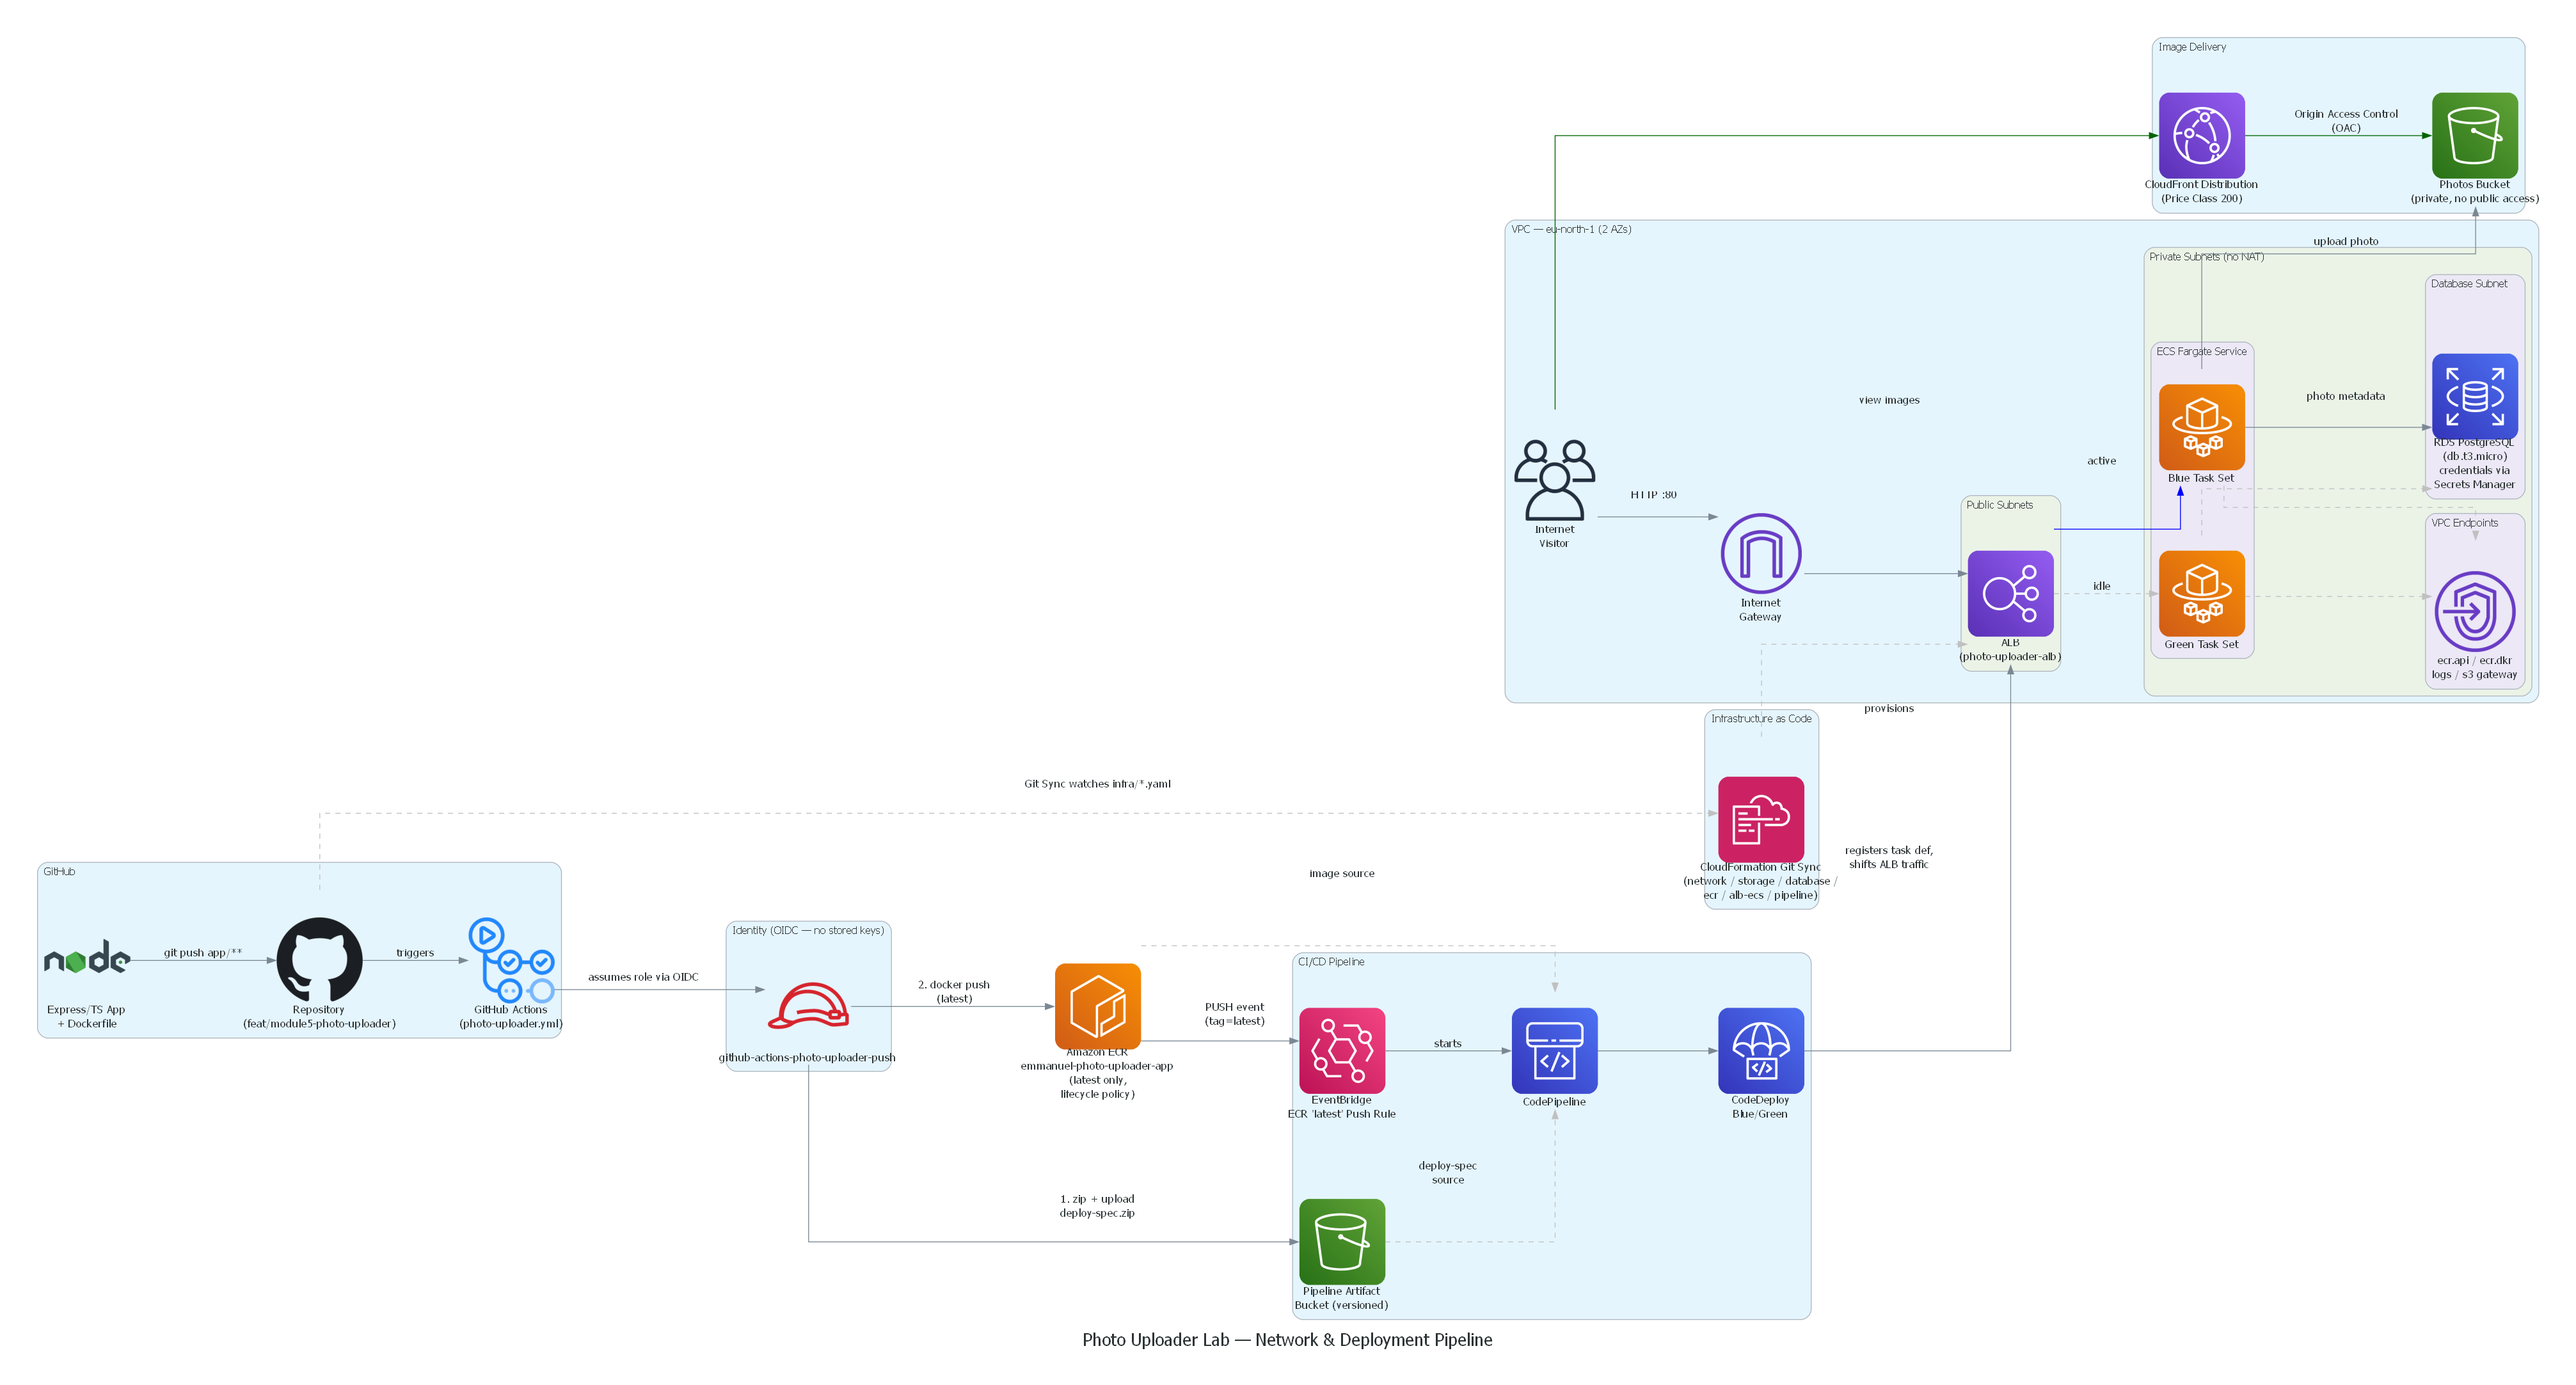
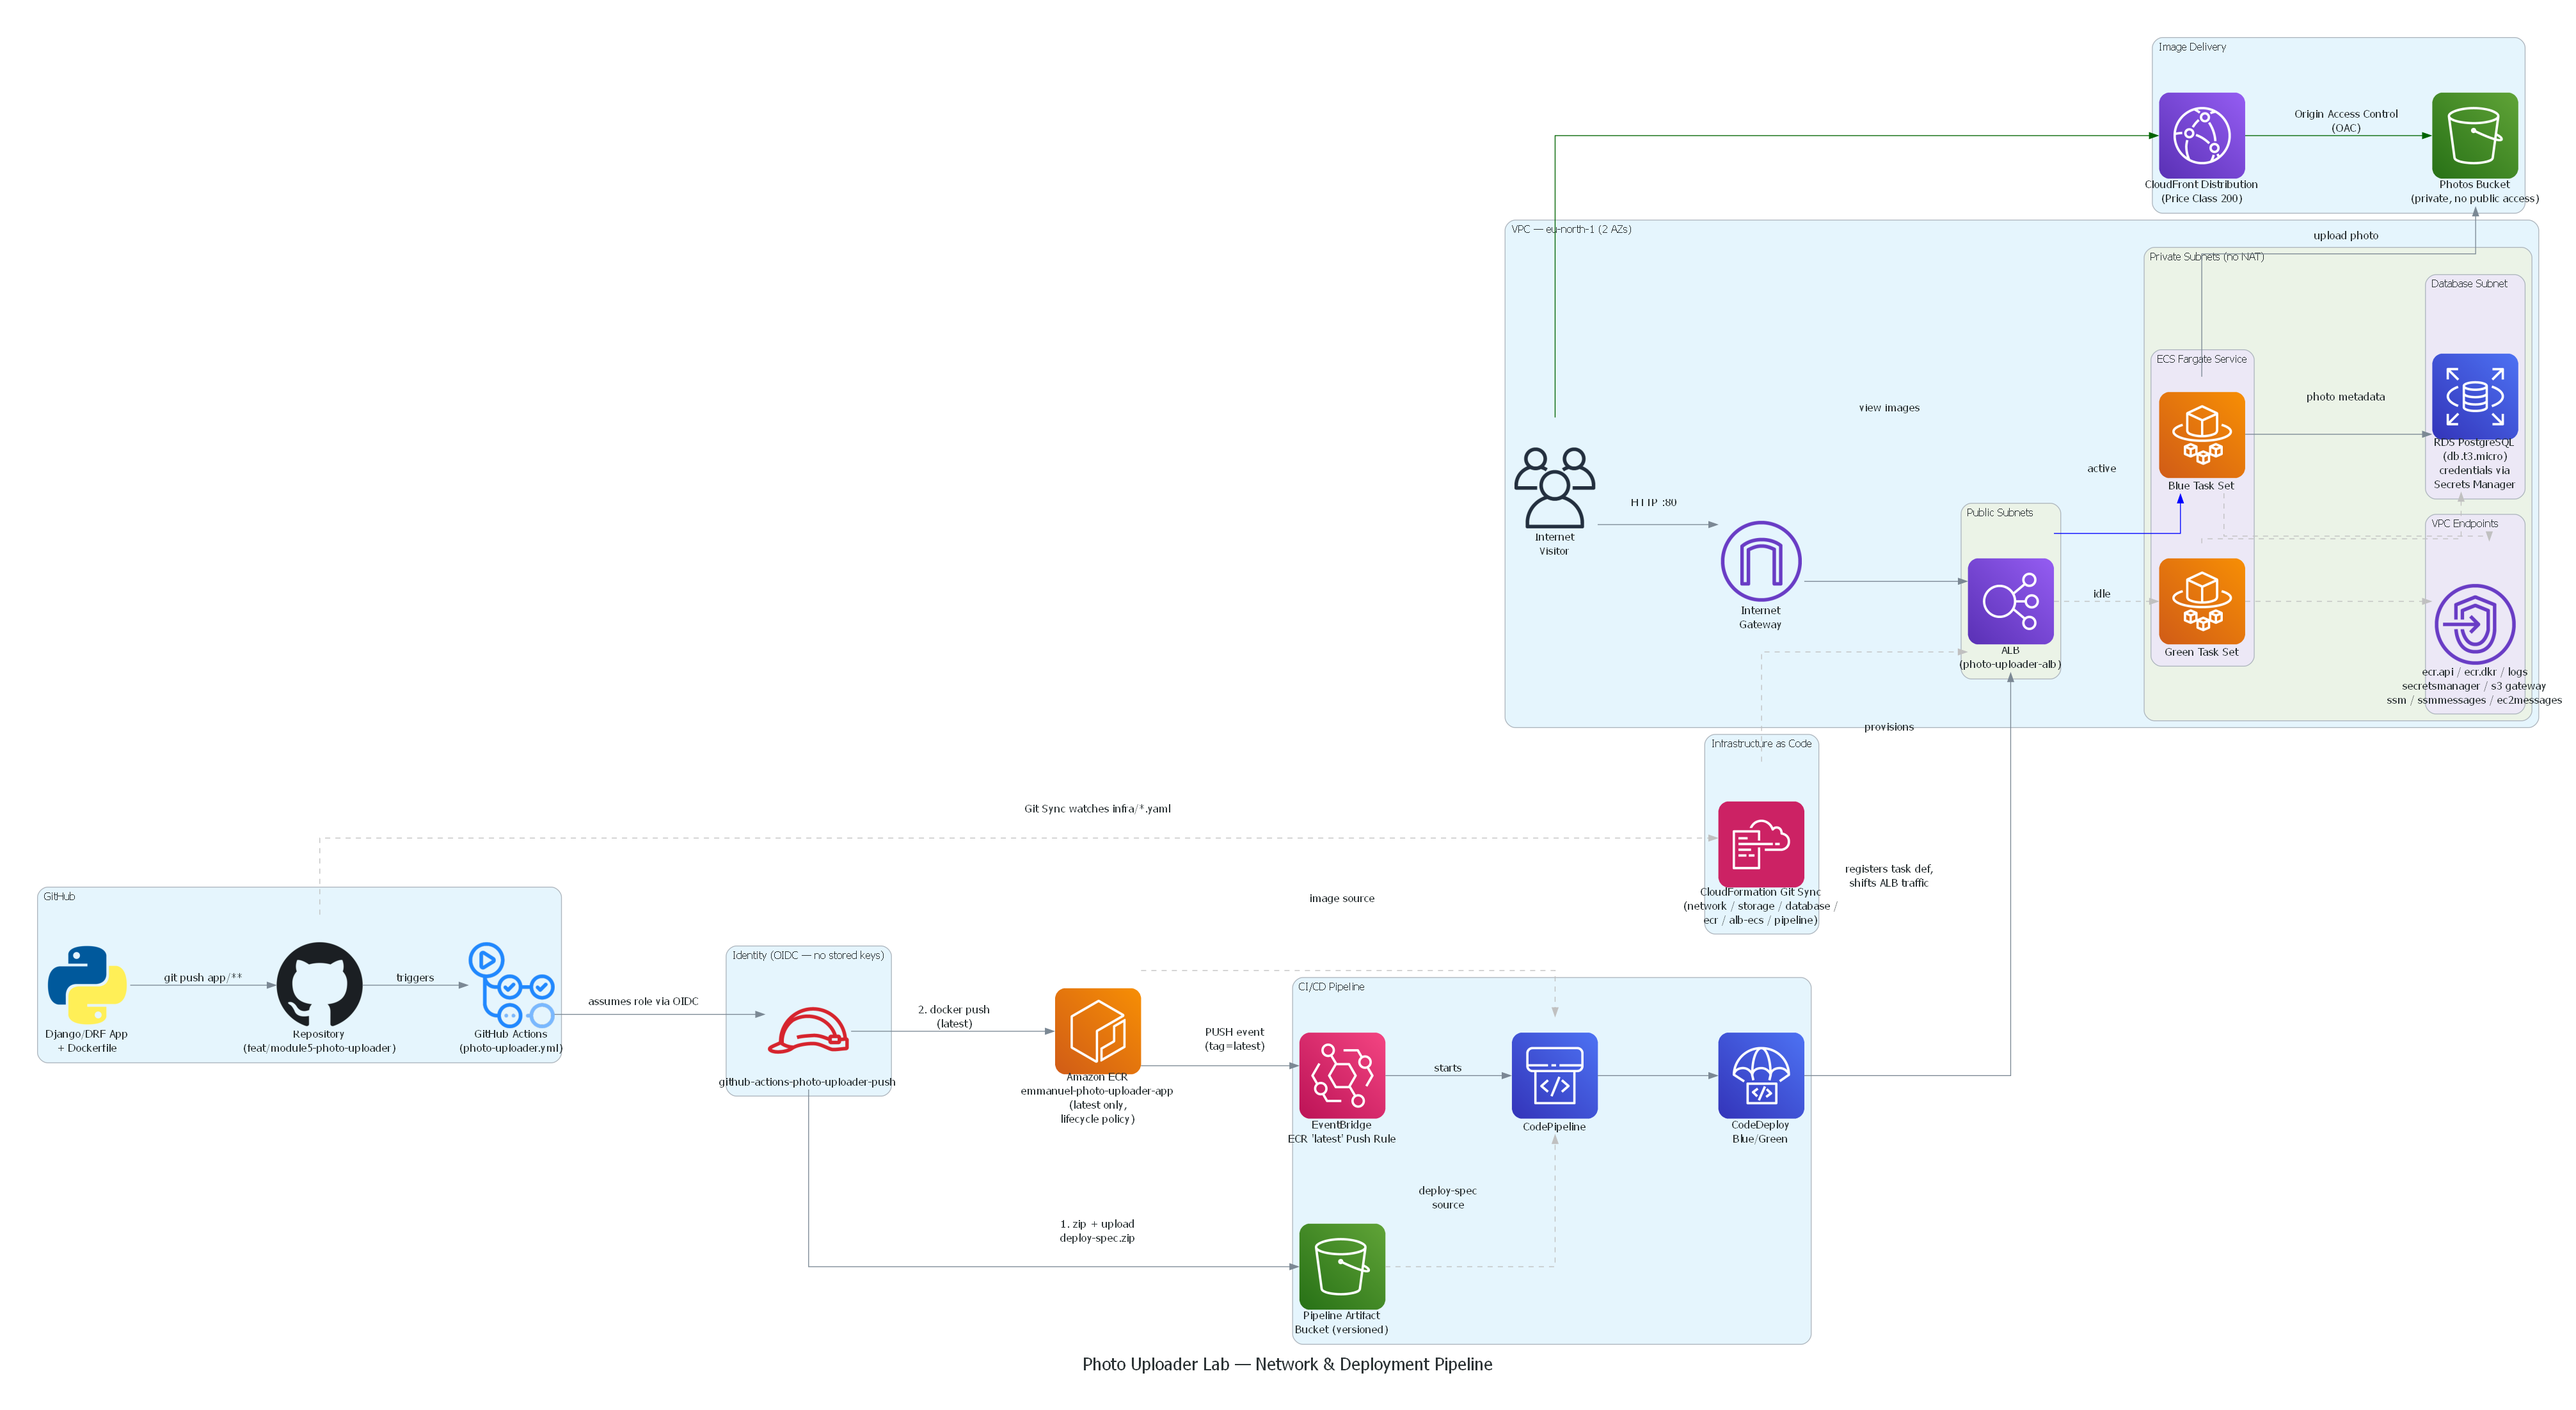
fix: update architecture diagram to reflect Django rewrite and new VPC endpoints

diff --git a/labs/aws-cloud-and-ai-upskilling/module5/photo-uploader/infra/diagram/generate_diagram.py b/labs/aws-cloud-and-ai-upskilling/module5/photo-uploader/infra/diagram/generate_diagram.py
@@ -16,7 +16,7 @@ from diagrams.aws.database import RDS
 from diagrams.onprem.vcs import Github
 from diagrams.onprem.ci import GithubActions
 from diagrams.onprem.client import Users
-from diagrams.programming.language import Nodejs
+from diagrams.programming.language import Python
 
 graph_attr = {
     "fontsize": "20",
@@ -34,7 +34,7 @@ with Diagram(
     direction="LR",
 ):
     with Cluster("GitHub"):
-        code = Nodejs("Express/TS App\n+ Dockerfile")
+        code = Python("Django/DRF App\n+ Dockerfile")
         repo = Github("Repository\n(feat/module5-photo-uploader)")
         actions = GithubActions("GitHub Actions\n(photo-uploader.yml)")
         code >> Edge(label="git push app/**") >> repo
@@ -73,7 +73,11 @@ with Diagram(
                 green = Fargate("Green Task Set")
 
             with Cluster("VPC Endpoints"):
-                vpce = Endpoint("ecr.api / ecr.dkr\nlogs / s3 gateway")
+                vpce = Endpoint(
+                    "ecr.api / ecr.dkr / logs\n"
+                    "secretsmanager / s3 gateway\n"
+                    "ssm / ssmmessages / ec2messages"
+                )
 
             with Cluster("Database Subnet"):
                 db = RDS("RDS PostgreSQL\n(db.t3.micro)\ncredentials via\nSecrets Manager")
